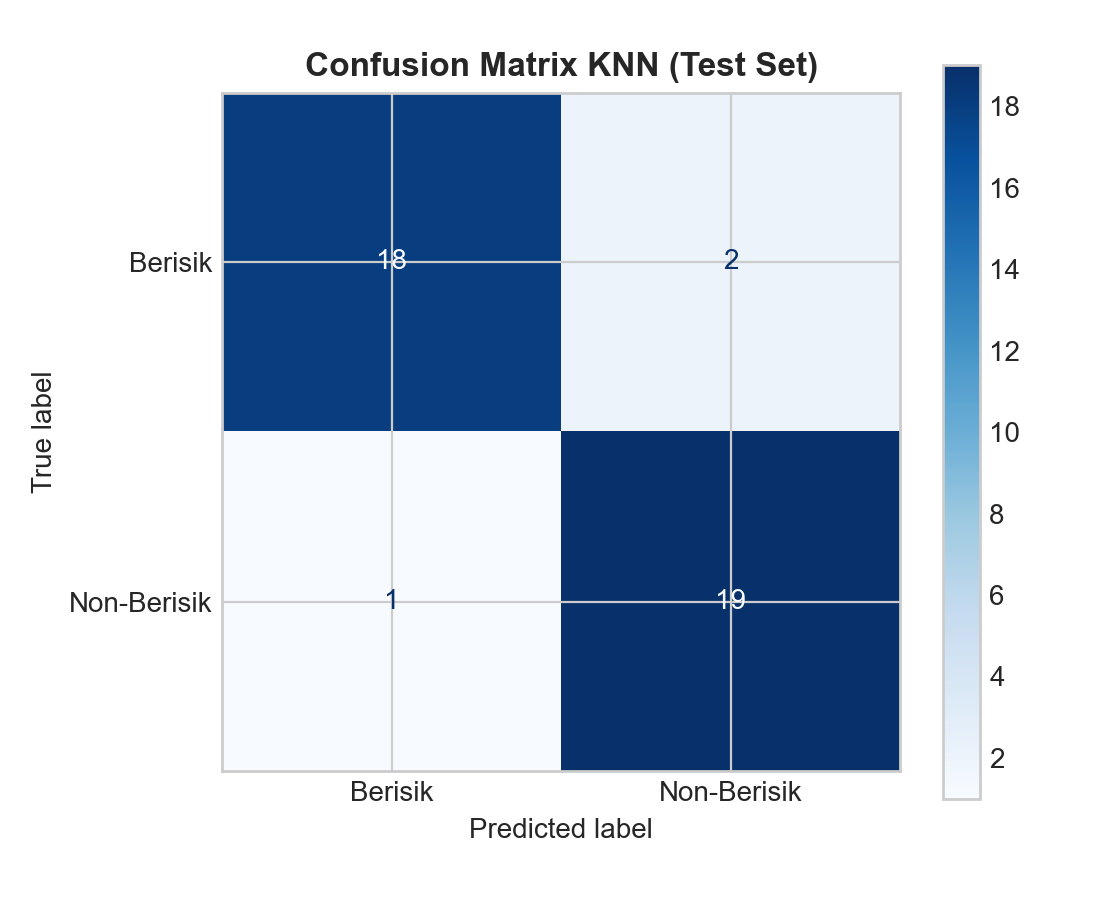
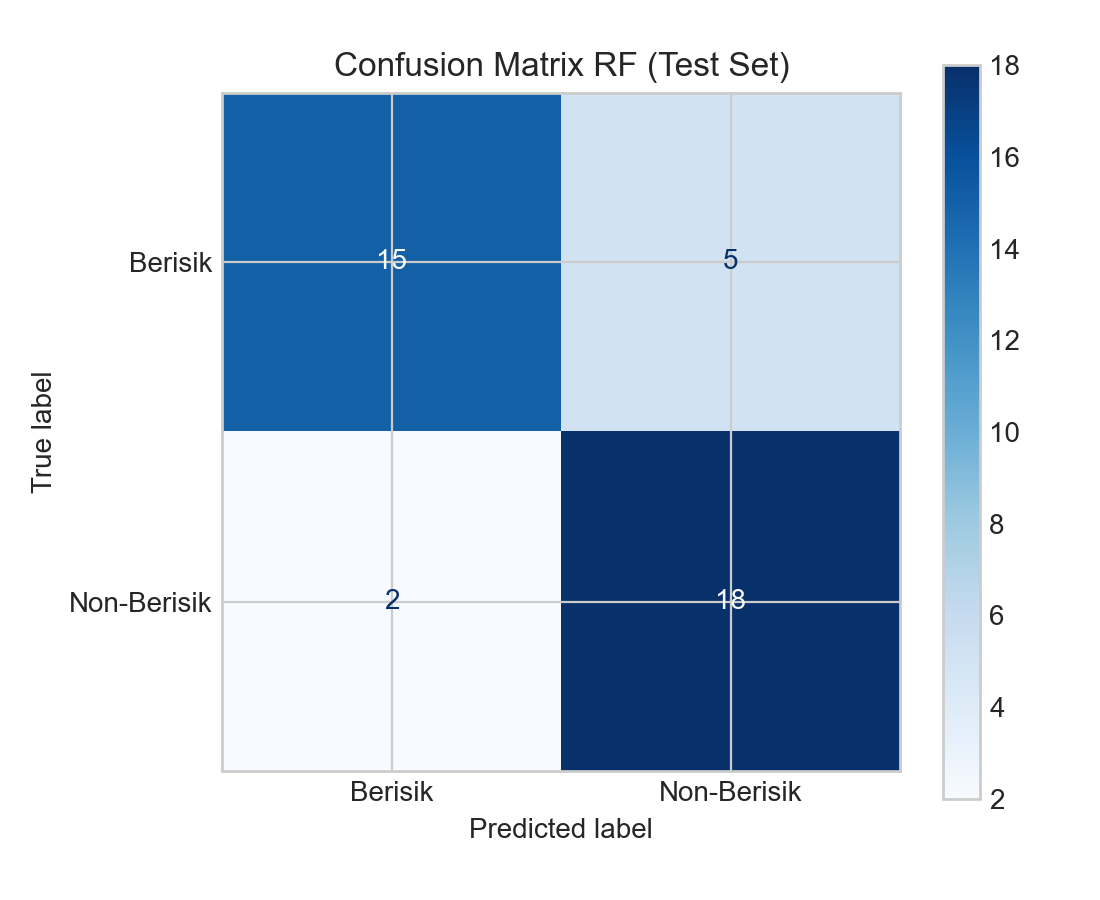
Ganti algoritma pelatihan ke Random Forest dan perbaiki path file

diff --git a/src/train_rf.py b/src/train_rf.py
@@ -5,9 +5,9 @@ import numpy as np
 import pandas as pd
 import matplotlib.pyplot as plt
 import seaborn as sns
-from sklearn.model_selection import train_test_split, GridSearchCV, StratifiedKFold
+from sklearn.model_selection import train_test_split, StratifiedKFold
 from sklearn.preprocessing import StandardScaler, LabelEncoder
-from sklearn.neighbors import KNeighborsClassifier
+from sklearn.ensemble import RandomForestClassifier
 from sklearn.metrics import (
     accuracy_score, precision_score, recall_score, f1_score,
     confusion_matrix, ConfusionMatrixDisplay, classification_report,
@@ -16,14 +16,15 @@ from sklearn.metrics import (
 import warnings
 warnings.filterwarnings('ignore')
 
-# Set styling
 plt.style.use('seaborn-v0_8-whitegrid' if 'seaborn-v0_8-whitegrid' in plt.style.available else 'default')
 
 def main():
     base_dir = os.path.dirname(os.path.abspath(__file__))
-    data_csv = os.path.join(base_dir, 'crawling', 'audio_features_16.csv')
-    images_dir = os.path.join(base_dir, 'images')
-    models_dir = os.path.join(base_dir, 'models')
+    root_dir = os.path.dirname(base_dir) # Mundur satu folder ke root (Audio-Classification)
+    
+    data_csv = os.path.join(root_dir, 'data', 'audio_features_16.csv')
+    images_dir = os.path.join(root_dir, 'docs', 'images') 
+    models_dir = os.path.join(root_dir, 'models')
     
     os.makedirs(images_dir, exist_ok=True)
     os.makedirs(models_dir, exist_ok=True)
@@ -50,37 +51,33 @@ def main():
     bars = ax.bar(counts.index, counts.values, color=['#e74c3c', '#2ecc71'], width=0.45, edgecolor='black', alpha=0.9)
     for bar in bars:
         yval = bar.get_height()
-        ax.text(bar.get_x() + bar.get_width()/2.0, yval + 1, f'{yval} ({yval/len(df)*100:.1f}%)', ha='center', va='bottom', fontweight='bold', fontsize=10)
-    ax.set_title('Distribusi Kelas Audio (Berisik vs Non-Berisik)', fontsize=12, fontweight='bold')
+        ax.text(bar.get_x() + bar.get_width()/2.0, yval + 1, f'{yval} ({yval/len(df)*100:.1f}%)', ha='center', va='bottom')
+    ax.set_title('Distribusi Kelas Audio', fontsize=12)
     ax.set_ylabel('Jumlah Sampel', fontsize=11)
     ax.set_ylim(0, max(counts.values) + 15)
     plt.tight_layout()
     plt.savefig(os.path.join(images_dir, 'class_distribution.png'), dpi=200)
     plt.close()
-    print(" - Saved: images/class_distribution.png")
     
-    # b. Perbandingan Fitur Utama (RMS, Centroid, ZCR)
+    # b. Perbandingan Fitur Utama
     fig, axes = plt.subplots(1, 3, figsize=(14, 4.2))
     key_features = [('rms', 'RMS Energy'), ('centroid', 'Spectral Centroid (Hz)'), ('zcr', 'Zero Crossing Rate')]
     for idx, (col, title) in enumerate(key_features):
-        sns.boxplot(x='label', y=col, hue='label', data=df, ax=axes[idx], palette={'berisik': '#e74c3c', 'non_berisik': '#2ecc71'}, legend=False)
-        axes[idx].set_title(title, fontweight='bold')
-        axes[idx].set_xlabel('Kelas')
-    plt.suptitle('Perbandingan Karakteristik Fitur Utama per Kategori Audio', fontsize=13, fontweight='bold', y=1.03)
+        sns.boxplot(x='label', y=col, hue='label', data=df, ax=axes[idx], legend=False)
+        axes[idx].set_title(title)
+    plt.suptitle('Perbandingan Karakteristik Fitur Utama per Kategori Audio', fontsize=13, y=1.03)
     plt.tight_layout()
     plt.savefig(os.path.join(images_dir, 'feature_distribution.png'), dpi=200)
     plt.close()
-    print(" - Saved: images/feature_distribution.png")
 
     # c. Correlation Matrix
     fig, ax = plt.subplots(figsize=(11, 9))
     corr = df[feature_cols].corr()
     sns.heatmap(corr, annot=True, fmt='.2f', cmap='coolwarm', cbar=True, ax=ax, linewidths=0.5, annot_kws={"size": 7.5})
-    ax.set_title('Matriks Korelasi Pearson Antar 16 Fitur Audio', fontsize=13, fontweight='bold')
+    ax.set_title('Matriks Korelasi Pearson Antar 16 Fitur Audio', fontsize=13)
     plt.tight_layout()
     plt.savefig(os.path.join(images_dir, 'correlation_matrix.png'), dpi=200)
     plt.close()
-    print(" - Saved: images/correlation_matrix.png")
     
     # -------------------------------------------------------------------------
     # 3. PREPROCESSING & SPLITTING
@@ -95,72 +92,26 @@ def main():
     y_encoded = le.fit_transform(df['label'].values)
     print(f"Mapping Label: {dict(zip(le.classes_, le.transform(le.classes_)))}")
     
-    # Split 80:20 stratified
     X_train, X_test, y_train, y_test = train_test_split(
         X, y_encoded, test_size=0.2, random_state=42, stratify=y_encoded
     )
-    print(f"Data Training : {X_train.shape[0]} sampel")
-    print(f"Data Testing  : {X_test.shape[0]} sampel")
     
-    # StandardScaler
     scaler = StandardScaler()
     X_train_scaled = scaler.fit_transform(X_train)
     X_test_scaled = scaler.transform(X_test)
     
     # -------------------------------------------------------------------------
-    # 4. MODELING KNN & HYPERPARAMETER TUNING
+    # 4. MODELING RANDOM FOREST
     # -------------------------------------------------------------------------
     print("\n" + "="*60)
-    print("4. PELATIHAN & TUNING HYPERPARAMETER KNN")
+    print("4. PELATIHAN MODEL RANDOM FOREST")
     print("="*60)
     
-    k_range = list(range(1, 23, 2))  # k ganjil
-    param_grid = {
-        'n_neighbors': k_range,
-        'weights': ['uniform', 'distance'],
-        'metric': ['euclidean', 'manhattan']
-    }
+    rf_model = RandomForestClassifier(n_estimators=100, random_state=42)
+    rf_model.fit(X_train_scaled, y_train)
     
-    cv = StratifiedKFold(n_splits=5, shuffle=True, random_state=42)
-    grid_search = GridSearchCV(
-        KNeighborsClassifier(),
-        param_grid,
-        cv=cv,
-        scoring='accuracy',
-        return_train_score=True
-    )
-    grid_search.fit(X_train_scaled, y_train)
-    
-    best_params = grid_search.best_params_
-    best_score = grid_search.best_score_
-    print(f"Hyperparameter Terbaik:")
-    print(f" - k (n_neighbors) : {best_params['n_neighbors']}")
-    print(f" - weights         : {best_params['weights']}")
-    print(f" - metric          : {best_params['metric']}")
-    print(f" - CV Mean Accuracy: {best_score*100:.2f}%")
-    
-    # Visualisasi Tuning K Accuracy
-    results_df = pd.DataFrame(grid_search.cv_results_)
-    subset = results_df[(results_df['param_weights'] == best_params['weights']) & 
-                        (results_df['param_metric'] == best_params['metric'])]
-    
-    fig, ax = plt.subplots(figsize=(8, 4.5))
-    ax.plot(subset['param_n_neighbors'], subset['mean_test_score'] * 100, marker='o', color='#2980b9', linewidth=2, label='Cross-Validation Accuracy')
-    ax.scatter([best_params['n_neighbors']], [best_score * 100], color='red', s=120, zorder=5, label=f"Best k={best_params['n_neighbors']} ({best_score*100:.1f}%)")
-    ax.set_title(f"Akurasi 5-Fold CV vs Nilai K (Metric: {best_params['metric'].capitalize()}, Weights: {best_params['weights'].capitalize()})", fontsize=11, fontweight='bold')
-    ax.set_xlabel('Nilai K (Jumlah Tetangga Terdekat)', fontsize=10)
-    ax.set_ylabel('Mean CV Accuracy (%)', fontsize=10)
-    ax.set_xticks(k_range)
-    ax.legend(loc='lower right')
-    plt.tight_layout()
-    plt.savefig(os.path.join(images_dir, 'knn_k_accuracy.png'), dpi=200)
-    plt.close()
-    print(" - Saved: images/knn_k_accuracy.png")
-
-    # Final best model
-    best_knn = grid_search.best_estimator_
-    y_pred = best_knn.predict(X_test_scaled)
-    y_proba = best_knn.predict_proba(X_test_scaled)
+    y_pred = rf_model.predict(X_test_scaled)
+    y_proba = rf_model.predict_proba(X_test_scaled)
     
     # -------------------------------------------------------------------------
     # 5. EVALUASI MODEL
@@ -170,18 +121,14 @@ def main():
     print("="*60)
     
     acc = accuracy_score(y_test, y_pred)
-    # class 0 = berisik, class 1 = non_berisik (sesuai alphabetical)
-    berisik_code = int(le.transform(['berisik'])[0])
-    non_berisik_code = int(le.transform(['non_berisik'])[0])
+    berisik_code = int(le.transform(['berisik'])[0]) if 'berisik' in le.classes_ else 0
+    non_berisik_code = int(le.transform(['non_berisik'])[0]) if 'non_berisik' in le.classes_ else 1
     
     prec = precision_score(y_test, y_pred, pos_label=berisik_code)
     rec = recall_score(y_test, y_pred, pos_label=berisik_code)
     f1 = f1_score(y_test, y_pred, pos_label=berisik_code)
     
     print(f"Test Accuracy : {acc*100:.2f}%")
-    print(f"Precision     : {prec*100:.2f}%")
-    print(f"Recall        : {rec*100:.2f}%")
-    print(f"F1-Score      : {f1*100:.2f}%")
     print("\nClassification Report:\n", classification_report(y_test, y_pred, target_names=le.classes_))
     
     # Confusion Matrix
@@ -189,11 +136,10 @@ def main():
     fig, ax = plt.subplots(figsize=(5.5, 4.5))
     disp = ConfusionMatrixDisplay(confusion_matrix=cm, display_labels=[c.replace('_', '-').title() for c in le.classes_])
     disp.plot(cmap='Blues', ax=ax, values_format='d')
-    ax.set_title('Confusion Matrix KNN (Test Set)', fontsize=12, fontweight='bold')
+    ax.set_title('Confusion Matrix RF (Test Set)', fontsize=12)
     plt.tight_layout()
     plt.savefig(os.path.join(images_dir, 'confusion_matrix.png'), dpi=200)
     plt.close()
-    print(" - Saved: images/confusion_matrix.png")
     
     # ROC Curve
     fpr, tpr, _ = roc_curve(y_test, y_proba[:, non_berisik_code], pos_label=non_berisik_code)
@@ -201,17 +147,12 @@ def main():
     
     fig, ax = plt.subplots(figsize=(6, 4.5))
     ax.plot(fpr, tpr, color='#e67e22', lw=2.5, label=f'ROC Curve (AUC = {roc_auc:.3f})')
-    ax.plot([0, 1], [0, 1], color='#7f8c8d', lw=1.5, linestyle='--', label='Random Chance')
-    ax.set_xlim([0.0, 1.0])
-    ax.set_ylim([0.0, 1.05])
-    ax.set_xlabel('False Positive Rate', fontsize=10)
-    ax.set_ylabel('True Positive Rate', fontsize=10)
-    ax.set_title('Receiver Operating Characteristic (ROC) Curve', fontsize=11, fontweight='bold')
+    ax.plot([0, 1], [0, 1], color='#7f8c8d', lw=1.5, linestyle='--')
+    ax.set_title('Receiver Operating Characteristic (ROC) Curve')
     ax.legend(loc="lower right")
     plt.tight_layout()
     plt.savefig(os.path.join(images_dir, 'roc_curve.png'), dpi=200)
     plt.close()
-    print(" - Saved: images/roc_curve.png")
     
     # -------------------------------------------------------------------------
     # 6. SIMPAN MODEL & ARTIFAK
@@ -220,19 +161,17 @@ def main():
     print("6. MENYIMPAN MODEL & SCALER")
     print("="*60)
     
-    model_path = os.path.join(models_dir, 'knn_model.pkl')
+    model_path = os.path.join(models_dir, 'rf_model.pkl')
     scaler_path = os.path.join(models_dir, 'scaler.pkl')
     encoder_path = os.path.join(models_dir, 'label_encoder.pkl')
     metadata_path = os.path.join(models_dir, 'model_metadata.json')
     
-    joblib.dump(best_knn, model_path)
+    joblib.dump(rf_model, model_path)
     joblib.dump(scaler, scaler_path)
     joblib.dump(le, encoder_path)
     
     metadata = {
-        'model_name': 'K-Nearest Neighbors (KNN)',
-        'best_hyperparameters': best_params,
-        'cv_mean_accuracy': float(best_score),
+        'model_name': 'Random Forest',
         'test_metrics': {
             'accuracy': float(acc),
             'precision': float(prec),
@@ -241,20 +180,13 @@ def main():
             'roc_auc': float(roc_auc)
         },
         'feature_names': feature_cols,
-        'classes': list(le.classes_),
-        'train_samples': int(len(X_train)),
-        'test_samples': int(len(X_test)),
-        'total_samples': int(len(df))
+        'classes': list(le.classes_)
     }
     
     with open(metadata_path, 'w', encoding='utf-8') as f:
         json.dump(metadata, f, indent=4)
         
-    print(f"Model tersimpan   : {model_path}")
-    print(f"Scaler tersimpan  : {scaler_path}")
-    print(f"Encoder tersimpan : {encoder_path}")
-    print(f"Metadata tersimpan: {metadata_path}")
-    print("\nSEMUA PROSES SELESAI DENGAN SUKSES!")
+    print("SEMUA PROSES SELESAI DENGAN SUKSES!")
 
 if __name__ == '__main__':
     main()
